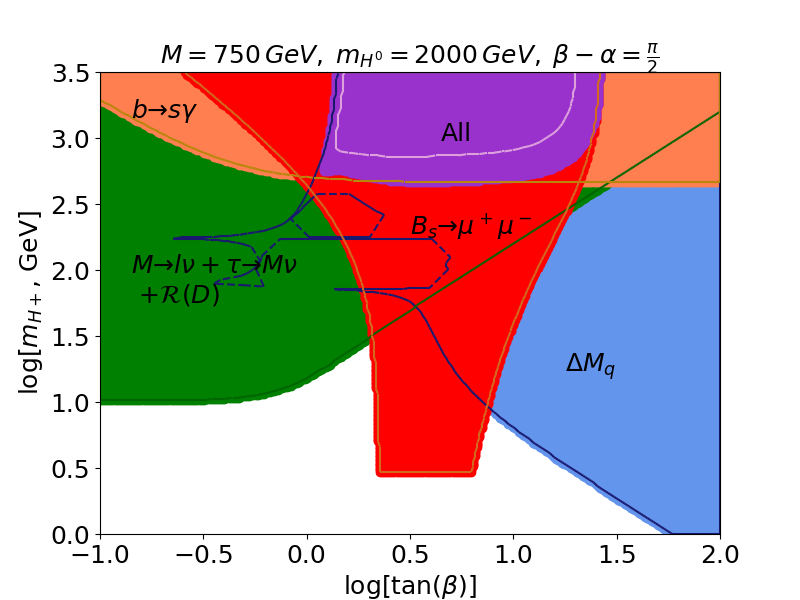
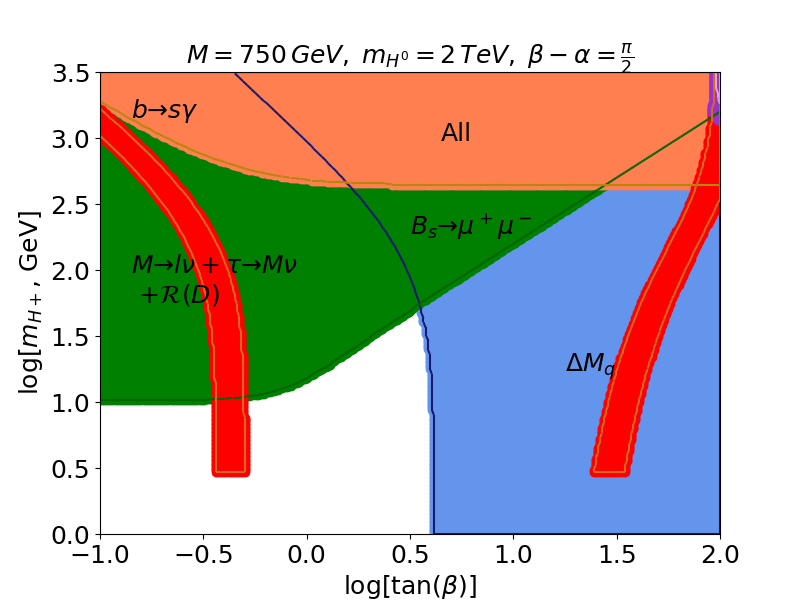
ups

Changed region(s): [[0.1875, 0.06, 0.9062, 0.9], [0.125, 0.15, 0.3438, 0.81]]

diff --git a/calcs/branching.py b/calcs/branching.py
@@ -43,6 +43,15 @@ Vcb, Vcb_err = [0.04162,[0.00026,-0.00080]]
 Vtd, Vtd_err = [0.008545,[0.000075,-0.000157]]
 Vts, Vts_err = [0.04090,[0.00026,-0.00076]]
 Vtb, Vtb_err = [0.999127,[0.000032,-0.000012]]
+#Vud, Vud_err = [0.974390,[0.000000312,-0.00000044]]
+#Vus, Vus_err = [0.224834,[0.000252,-0.000059]]
+#Vub, Vub_err = [0.003683,[0.000075,-0.000061]]
+#Vcd, Vcd_err = [0.224702,[0.000040,-0.000132]]
+#Vcs, Vcs_err = [0.973538,[0.000014,-0.000043]]
+#Vcb, Vcb_err = [0.04162,[0.00026,-0.00080]]
+#Vtd, Vtd_err = [0.00853903,[0.000716,-0.002544]]
+#Vts, Vts_err = [0.0409008,[0.000334,-0.00106]]
+#Vtb, Vtb_err = [0.999127,[0.000011,-0.000033]]
 
 f_bplus, f_bplus_err = [0.190,[0.0013,-0.0013]]
 f_dplus, f_dplus_err = [0.212,[0.0007,-0.0007]]
@@ -90,15 +99,15 @@ delta_b,delta_d = 0.982,0.99*0.982
 
 #bmu, bmerr = bsm(m_bplus,m_mu,Vub,f_bplus,tau_bplus,1), error_branching(m_bplus,m_bplus_err,m_mu,m_mu_err,Vub,Vub_err,f_bplus,f_bplus_err,tau_bplus,tau_bplus_err,1,[1,1],1,[1,1],1,1,1)
 #btau, berr = bsm(m_bplus,m_tau,Vub,f_bplus,tau_bplus,1), error_branching(m_bplus,m_bplus_err,m_tau,m_tau_err,Vub,Vub_err,f_bplus,f_bplus_err,tau_bplus,tau_bplus_err,1,[1,1],1,[1,1],1,1,1)
-#dtau, derr = bsm(m_dplus,m_mu,Vcd,f_dplus,tau_dplus,0.982*0.99), error_branching(m_dplus,m_dplus_err,m_mu,m_mu_err,Vcd,Vcd_err,f_dplus,f_dplus_err,tau_dplus,tau_dplus_err,1,[1,1],1,[1,1],1,1,0.982*0.99)
+#dtau, derr = bsm(m_dplus,m_mu,Vcd,f_dplus,tau_dplus,0.982), error_branching(m_dplus,m_dplus_err,m_mu,m_mu_err,Vcd,Vcd_err,f_dplus,f_dplus_err,tau_dplus,tau_dplus_err,1,[1,1],1,[1,1],1,1,0.982)
 #dsmu, dsmerr = bsm(m_dsplus,m_mu,Vcs,f_dsplus,tau_dsplus,1), error_branching(m_dsplus,m_dsplus_err,m_mu,m_mu_err,Vcs,Vcs_err,f_dsplus,f_dsplus_err,tau_dsplus,tau_dsplus_err,1,[1,1],1,[1,1],1,1,1)
-#dstau, dserr = bsm(m_dsplus,m_tau,Vcs,f_dsplus,tau_dsplus,delta_b), error_branching(m_dsplus,m_dsplus_err,m_tau,m_tau_err,Vcs,Vcs_err,f_dsplus,f_dsplus_err,tau_dsplus,tau_dsplus_err,1,[1,1],1,[1,1],1,1,delta_b)
+#dstau, dserr = bsm(m_dsplus,m_tau,Vcs,f_dsplus,tau_dsplus,1), error_branching(m_dsplus,m_dsplus_err,m_tau,m_tau_err,Vcs,Vcs_err,f_dsplus,f_dsplus_err,tau_dsplus,tau_dsplus_err,1,[1,1],1,[1,1],1,1,1)
 #print("B -> tau nu Branching =",btau*1e5,"+",berr[0]*1e5,"-",berr[1]*1e5)
 #print("B -> mu nu Branching =",bmu*1e7,"+",bmerr[0]*1e7,"-",bmerr[1]*1e7)
 #print("D -> mu nu Branching =",dtau*1e4,"+",derr[0]*1e4,"-",derr[1]*1e4)
 #print("Ds -> tau nu Branching =",dstau*1e2,"+",dserr[0]*1e2,"-",dserr[1]*1e2)
 #print("Ds -> mu nu Branching =",dsmu*1e3,"+",dsmerr[0]*1e3,"-",dsmerr[1]*1e3)
-#
+##
 #kpi, tkpi = decay_ratios(m_K,m_pi,m_mu,m_tau,Vus,Vud,f_Kpi,delt_kpi,delt_kpitau)
 #kerr0, kerr1, terr0, terr1 = error_kpi(m_K,m_K_err,m_pi,m_pi_err,m_mu,m_mu_err,m_tau,m_tau_err,Vus,Vus_err,Vud,Vud_err,f_Kpi,f_Kpi_err,delt_kpi,delt_kpi_err,delt_kpitau,delt_kpitau_err,m_s,m_s_err,m_d,m_d_err,m_u,m_u_err,1,1)
 #print("K/pi branching",kpi,"+",kerr0,"-",kerr1)
@@ -271,7 +280,8 @@ mBd, mBd_err = [5.27964,[0.00013,-0.00013]]
 mBs, mBs_err = [5.36688,[0.00017,-0.00017]]
 lambda_QCD, QCD_err = [0.2275,[0.01433,-0.01372]]
 
-etaB, etaB_err = [0.537856,[0,0]]
+#etaB, etaB_err = [0.537856,[0,0]]
+etaB, etaB_err = [0.838606,[0,0]]
 
 fBs, fBs_err = [0.0452,[0.0014,-0.0014]]
 fBd, fBd_err = [0.0305,[0.0011,-0.0011]]
@@ -288,8 +298,8 @@ delt_ms, delt_ms_err = [17.757e12,[0.021e12,-0.021e12]]
 delt_md_expect, delt_md_err_exp = [0.533e12,[0.022e12,-0.036e12]]
 delt_ms_expect, delt_ms_err_exp = [18.4e12,[0.7e12,-1.2e12]]
 
-bdmix, bderr = mixing(mt,1,mW,1,Vtd,Vtb,etaB,mBd,fBd,BBd,1,lambda_QCD,m_b),error_mixing(mt,mt_err,1,mW,mW_err,1,Vtd,Vtd_err,Vtb,Vtb_err,etaB,etaB_err,mBd,mBd_err,fBd,fBd_err,BBd,BBd_err,1,[1,1],lambda_QCD,QCD_err,m_b,m_b_err)
-bsmix, bserr = mixing(mt,1,mW,1,Vts,Vtb,etaB,mBs,fBs,BBs,1,lambda_QCD,m_b),error_mixing(mt,mt_err,1,mW,mW_err,1,Vts,Vts_err,Vtb,Vtb_err,etaB,etaB_err,mBs,mBs_err,fBs,fBs_err,BBs,BBs_err,1,[1,1],lambda_QCD,QCD_err,m_b,m_b_err)
+bdmix, bderr = mixing(mt,1e9,mW,1e9,Vtd,Vtb,etaB,mBd,fBd,BBd,1,lambda_QCD,m_b),error_mixing(mt,mt_err,1e9,mW,mW_err,1e9,Vtd,Vtd_err,Vtb,Vtb_err,etaB,etaB_err,mBd,mBd_err,fBd,fBd_err,BBd,BBd_err,1,[1,1],lambda_QCD,QCD_err,m_b,m_b_err)
+bsmix, bserr = mixing(mt,1e9,mW,1e9,Vts,Vtb,etaB,mBs,fBs,BBs,1,lambda_QCD,m_b),error_mixing(mt,mt_err,1e9,mW,mW_err,1e9,Vts,Vts_err,Vtb,Vtb_err,etaB,etaB_err,mBs,mBs_err,fBs,fBs_err,BBs,BBs_err,1,[1,1],lambda_QCD,QCD_err,m_b,m_b_err)
 print("Bd mixing =",bdmix*1e-12,"+",bderr[0]*1e-12,"-",bderr[1]*1e-12)
 print("Bs mixing =",bsmix*1e-12,"+",bserr[0]*1e-12,"-",bserr[1]*1e-12)
 quit()
@@ -330,6 +340,7 @@ plt.yticks(fontsize=18)
 plt.axis([-1,2,0,3.5])
 plt.show()
 #plt.savefig('bmix.png')
+quit()
 
 # B0s mixing
 #mH_ms, tanb_ms = itera_mix(mt,mt_err,mW,mW_err,Vts,Vts_err,Vtb,Vtb_err,etaB,etaB_err,mBs,mBs_err,fBs,fBs_err,BBs,BBs_err,delt_ms,delt_ms_err,delt_ms_expect,delt_ms_err_exp)
@@ -411,20 +422,20 @@ bd_exp, bd_exp_err = [1.4e-10,[1.6e-10,-1.4e-10]] #pdg
 sm, sm_err = [3.1e-9,[0.7e-9,-0.7e-9]]
 wangle, wangle_err = [0.23155,[0.00004,-0.00004]]
 higgs, higgs_err = [125.10,[0.14,-0.14]]
-#mH_bmumu, tanb_bmumu = itera_bmumu(mt1,mt1_err,taubs,taubs_err,fBs,fBs_err,Vtb,Vtb_err,Vts,Vts_err,m_mu,m_mu_err,mbs,mbs_err,mW1,mW1_err,m_b,m_b_err,m_s,m_s_err,m_c,m_c_err,m_u,m_u_err,wangle,wangle_err,higgs,higgs_err,vev,vev_err,Vus,Vus_err,Vub,Vub_err,Vcs,Vcs_err,Vcb,Vcb_err,bs_exp,bs_exp_err)
+mH_bmumu, tanb_bmumu = itera_bmumu(mt1,mt1_err,taubs,taubs_err,fBs,fBs_err,Vtb,Vtb_err,Vts,Vts_err,m_mu,m_mu_err,mbs,mbs_err,mW1,mW1_err,m_b,m_b_err,m_s,m_s_err,m_c,m_c_err,m_u,m_u_err,wangle,wangle_err,higgs,higgs_err,vev,vev_err,Vus,Vus_err,Vub,Vub_err,Vcs,Vcs_err,Vcb,Vcb_err,bs_exp,bs_exp_err)
 ###
-#plt.figure(figsize=(8,6))
-#plt.scatter(tanb_bmumu,mH_bmumu,marker=',',c='red')
-#plt.axis([-1,2,0,3.5])
-#plt.ylabel('$\\log[m_{H+}$, GeV]',fontsize=18)
-#plt.xlabel('$\\log[\\tan(\\beta)]$',fontsize=18)
-#plt.title('$M = 750\,GeV,\; m_{H^0} = 2\,TeV$\n$\\beta-\\alpha=\\pi/2+0.05$',fontsize=18)
-#plt.xticks(fontsize=18)
-#plt.yticks(fontsize=18)
+plt.figure(figsize=(8,6))
+plt.scatter(tanb_bmumu,mH_bmumu,marker=',',c='red')
+plt.axis([-1,2,0,3.5])
+plt.ylabel('$\\log[m_{H+}$, GeV]',fontsize=18)
+plt.xlabel('$\\log[\\tan(\\beta)]$',fontsize=18)
+plt.title('$M = 750\,GeV,\; m_{H^0} = 2\,TeV$\n$\\beta-\\alpha=\\pi/2+0.05$',fontsize=18)
+plt.xticks(fontsize=18)
+plt.yticks(fontsize=18)
 #plt.savefig('bcba9.png')
-#plt.show()
+plt.show()
 ##os.system('play gumdrops.mp3')
-#quit()
+quit()
 
 ###################### GLOBAL CONSTRAINT
 

diff --git a/calcs/functions.py b/calcs/functions.py
@@ -124,8 +124,11 @@ def mixing(mt,mH,mW,tanb,Vtq,Vtb,etaB,mB,fBq,BBq,expect,lam,mbo):
     x_tH = (mtmu/mH)**2
     x_tW = (mtmu/mW)**2
     S_WW = x_tW1*(1/4 +9/(4*(1-x_tW1)) - 3/(2*(1-x_tW1)**2) - 3*(x_tW1**2)*np.log(x_tW1)/(2*(1-x_tW1)**3))
+    S_WW1 = x_tW*(1/4 +9/(4*(1-x_tW)) - 3/(2*(1-x_tW)**2) -3*(x_tW**2)*np.log(x_tW)/(2*(1-x_tW)**3))
     S_WH = (x_tH1*x_tW1/(4*tanb**2))*((2*x_tW1-8*x_tH1)*np.log(x_tH1)/((x_tH1-x_tW1)*(1-x_tH1)**2) + 6*x_tW1*np.log(x_tW1)/((x_tH1-x_tW1)*(1-x_tW1)**2) - (8-2*x_tW1)/((1-x_tW1)*(1-x_tH1)))
+    S_WH1 = (x_tH*x_tW/(4*tanb**2))*((2*x_tW-8*x_tH)*np.log(x_tH)/((x_tH-x_tW)*(1-x_tH)**2) + 6*x_tW*np.log(x_tW)/((x_tH-x_tW)*(1-x_tW)**2) - (8-2*x_tW)/((1-x_tW)*(1-x_tH)))
     S_HH = (x_tH1*x_tW1/(4*tanb**4))*((1+x_tH1)/((1-x_tH1)**2)+2*x_tH1*np.log(x_tH1)/((1-x_tH1)**3))
+    S_HH1 = (x_tH*x_tW/(4*tanb**4))*((1+x_tH)/((1-x_tH)**2)+2*x_tH*np.log(x_tH)/((1-x_tH)**3))
 
     Lo = Li2(1-1/x_tW)
     Lu = Li2(1-x_tW)
@@ -153,7 +156,7 @@ def mixing(mt,mH,mW,tanb,Vtq,Vtb,etaB,mB,fBq,BBq,expect,lam,mbo):
     HH1 = (x_tW/x_tH)*PP1h+6*(np.log(x_tH)-np.log(x_tW))*(dSHH+dSHW)
     WH1 = x_tW*(2*(x_tH**2)*(13+3*x_tH)*np.log(x_tH)/((x_tH-x_tW)*(x_tH-1)**3) - 2*x_tH*(9+7*x_tH+7*x_tW-23*x_tW*x_tH)/pow((x_tW-1)*(x_tH-1),2) - 2*(x_tH**2)*(18-6*x_tH-44*x_tW+13*x_tH*x_tW+9*x_tH*x_tW**2)*np.log(x_tW)/((x_tH-x_tW)*(x_tH-1)**2 *(x_tW-1)**3) - 24*(x_tH**2)*np.log(x_tH)*np.log(x_tW)/((x_tH-x_tW)*(x_tH-1)**3) + 24*(x_tH**2)*Loh/((x_tH-x_tW)*(x_tH-1)**2) - 24*x_tH*x_tW*(1+x_tW)*Lo/((x_tH-x_tW)*(x_tW-1)**3) - 48*x_tW*x_tH*Lu/((x_tH-x_tW)*(x_tW-1)**3))
     PH1 = (x_tW**2)*(x_tH*(31-15*x_tH-15*x_tW-x_tH*x_tW)/(2*pow((x_tH-1)*(x_tW-1),2)) - x_tH*(7+21*x_tH-12*x_tH**2)*np.log(x_tH)/(2*(x_tH-x_tW)*(x_tH-1)**3) + x_tH*(7-9*x_tW+36*x_tW**2 - 18*x_tW**3)*np.log(x_tW)/(2*(x_tH-x_tW)*(x_tH-1)**2 *(x_tW-1)**3) + (x_tH**2)*(8-36*x_tW+9*x_tW**2 + 3*x_tW**3)*np.log(x_tW)/((x_tH-x_tW)*(x_tH-1)**2 *(x_tW-1)**3) - (x_tH**3)*(11-45*x_tW+18*x_tW**2)*np.log(x_tW)/(2*(x_tH-x_tW)*(x_tH-1)**2 *(x_tW-1)**3) + 6*x_tH*np.log(x_tH)*np.log(x_tW)/((x_tH-x_tW)*(x_tH-1)**3) - 6*x_tH*(1+x_tH-x_tH**2)*Loh/((x_tH-x_tW)*(x_tH-1)**2) + 6*x_tH*(1+2*x_tW**2 -x_tW**3)*Lo/((x_tH-x_tW)*(x_tW-1)**3) + 12*x_tH*Lu/((x_tH-x_tW)*(x_tW-1)**3))
-    HH8 = (x_tW/x_tH)*PP8h+6*(np.log(x_tH)-np.log(x_tW))*S_HH
+    HH8 = (x_tW/x_tH)*PP8h+6*(np.log(x_tH)-np.log(x_tW))*S_HH1
     WH8 = x_tW*(24*x_tH*x_tW*Lu/((x_tH-x_tW)*(x_tW-1)**2) + 6*(x_tH**2)*(5*x_tW-x_tH+3*x_tH*x_tW**2)*Lo/((x_tH-x_tW)*pow((x_tH-1)*(x_tW-1),2)*x_tW) + 6*x_tH*(2*x_tW**2 -10*x_tH*x_tW+x_tH*x_tW**2)*Lo/((x_tH-x_tW)*pow((x_tH-1)*(x_tW-1),2)) + 6*(x_tH**2)*(5*x_tW-x_tH-8*x_tW**2 +2*x_tH*x_tW**2)*Luh/((x_tH-x_tW)*pow((x_tH-1)*(x_tW-1),2)*x_tW) + 6*(x_tW**2 -x_tH*x_tW+2*(x_tH*x_tW)**2)*Luh/((x_tH-x_tW)*pow((x_tH-1)*(x_tW-1),2)) + 6*(x_tH**2)*(-x_tH+5*x_tW)*Loh/(x_tW*(x_tH-x_tW)*(x_tH-1)**2) - 6*(x_tH**2)*(5*x_tW-x_tH-8*x_tW**2 +2*x_tH*x_tW**2)*Louh/(x_tW*(x_tH-x_tW)*pow((x_tH-1)*(x_tW-1),2)) - 6*(x_tW**2 -x_tH*x_tW+2*(x_tH*x_tW)**2)*Louh/((x_tH-x_tW)*pow((x_tH-1)*(x_tW-1),2)) - 6*(x_tH**2)*(1-x_tH-np.log(x_tH))/((x_tW-1)*(x_tH-1)**2) + 6*x_tH*(2*x_tW-1)*np.log(x_tW)/((x_tH-1)*(x_tW-1)**2) + 6*(x_tH**2)*(5*x_tW-x_tH-8*x_tW**2)*np.log(x_tH)*np.log(x_tW)/(x_tW*(x_tH-x_tW)*pow((x_tH-1)*(x_tW-1),2)) + 12*(x_tH**2)*(x_tH*x_tW+x_tW**2)*np.log(x_tH)*np.log(x_tW)/((x_tH-x_tW)*pow((x_tH-1)*(x_tW-1),2)))
     PH8 = (x_tW**2)*((2*x_tH+2*x_tW-11*x_tH*x_tW)/(2*x_tW*(x_tW-1)*(x_tH-1)) - (2*x_tH**2 -7*x_tH*x_tW+2*x_tW*x_tH**2 +2*x_tW**2 +x_tH*x_tW**2)*np.log(x_tH)/(2*x_tW*(x_tW-1)*(x_tH-x_tW)*(x_tH-1)**2) - x_tH*(7-7*x_tH+4*x_tW-6*x_tW**2)*np.log(x_tW)/(2*(x_tH-1)*(x_tH-x_tW)*(x_tW-1)**2) + (x_tH**2 +x_tW**2 -3*pow(x_tH*x_tW,2))*np.log(x_tW)/(x_tW*(x_tH-1)*(x_tH-x_tW)*(x_tW-1)**2) - (x_tH**2)*(4-6*x_tW+3*x_tH*x_tW)*np.log(x_tH)*np.log(x_tW)/(x_tW*(x_tH-x_tW)*pow((x_tH-1)*(x_tW-1),2)) + x_tH*(x_tH**2 -3*x_tW**2 +6*x_tW**3 -3*x_tW**4)*np.log(x_tH)*np.log(x_tW)/((x_tH-x_tW)*pow(x_tW*(x_tH-1)*(x_tW-1),2)) - x_tH*(3*x_tW**2 +2*x_tH*x_tW*(2+x_tW)-(x_tH**2)*(1+2*x_tW))*Loh/((x_tH-x_tW)*pow(x_tW*(x_tH-1),2)) - (4*x_tH*x_tW-6*x_tW*x_tH**2 +3*pow(x_tH*x_tW,2)-x_tW**2)*Luh/(x_tH*(x_tH-x_tW)*pow((x_tH-1)*(x_tW-1),2)) - (4*x_tW*x_tH**2 -6*pow(x_tH*x_tW,2)-x_tH**3 +3*(x_tW**2)*(x_tH**3))*Luh/((x_tH-x_tW)*pow(x_tW*(x_tW-1)*(x_tH-1),2)) + 2*(x_tH**2)*(6-x_tW**2 -3*x_tH+x_tW*x_tH)*Lo/((x_tH-x_tW)*pow((x_tH-1)*(x_tW-1),2)) - x_tH*(3*x_tW**2 +4*x_tH*x_tW-x_tH**2)*Lo/((x_tH-x_tW)*pow(x_tW*(x_tW-1)*(x_tH-1),2)) + (4*x_tH*x_tW-6*x_tW*x_tH**2 +3*pow(x_tH*x_tW,2)-x_tW**2)*Louh/(x_tH*(x_tH-x_tW)*pow((x_tH-1)*(x_tW-1),2)) + (x_tH**2)*(4*x_tW-6*x_tW**2 -x_tH+3*x_tH*x_tW**2)*Louh/((x_tH-x_tW)*pow(x_tW*(x_tH-1)*(x_tW-1),2)) - 6*x_tH*Lu/((x_tH-x_tW)*(x_tW-1)**2))
     L1h = (1/tanb**2)*WH1 + (1/tanb**2)*PH1 + (1/tanb**4)*HH1
@@ -161,15 +164,14 @@ def mixing(mt,mH,mW,tanb,Vtq,Vtb,etaB,mB,fBq,BBq,expect,lam,mbo):
 
     CA = 1/3
     CF = 4/3
-    x0 = (mW/mW)**2
-    Dsm = CA*(L8s+S_WW*(5+np.log(x0)))+CF*(L1s+3*S_WW+6*x_tW*np.log(x0)*(1/4 - 3/(2*(1-x_tW)**2) + 9/(4*(1-x_tW)) - 3*(x_tW**2)*np.log(x_tW)/(2*(1-x_tW)**3) + x_tW*(-3/(1-x_tW)**3 + 9/(4*(1-x_tW)**2) - 3*x_tW/(2*(1-x_tW)**3) - 9*(x_tW**2)*np.log(x_tW)/(2*(1-x_tW)**4))))
-    DH = CF*(L1h+3*(S_WH+S_HH))+CA*(L8h+5*(S_WH+S_HH))
-    Dx = Dsm# + DH
-    Sx = S_WW#+S_WH+S_HH
+    Dsm = CA*(L8s+S_WW1*5)+CF*(L1s+3*S_WW1)
+    DH = CF*(L1h+3*(S_WH1+S_HH1))+CA*(L8h+5*(S_WH1+S_HH1))
+    Dx = Dsm + DH
+    Sx = S_WW1+S_WH1+S_HH1
     Z = -5165/3174
-    eta2 = pow(as_m,6/23)*(1+(as_m/(4*np.pi))*(Dx/Sx + Z))
+    eta2 = pow(as_m,6/23)*Bab*(1+(as_m/(4*np.pi))*(Dx/Sx + Z))
 
-    delt_mq = (g_gev/(6*np.pi**2))*((Vtq*Vtb)**2)*eta2*mB*(mW**2)*(fBq)*Bab*Sx
+    delt_mq = (g_gev/(6*np.pi**2))*((Vtq*Vtb)**2)*eta2*mB*(mW**2)*(fBq)*(S_WW+S_WH+S_HH)
 
     return delt_mq/hbar_gev
 
